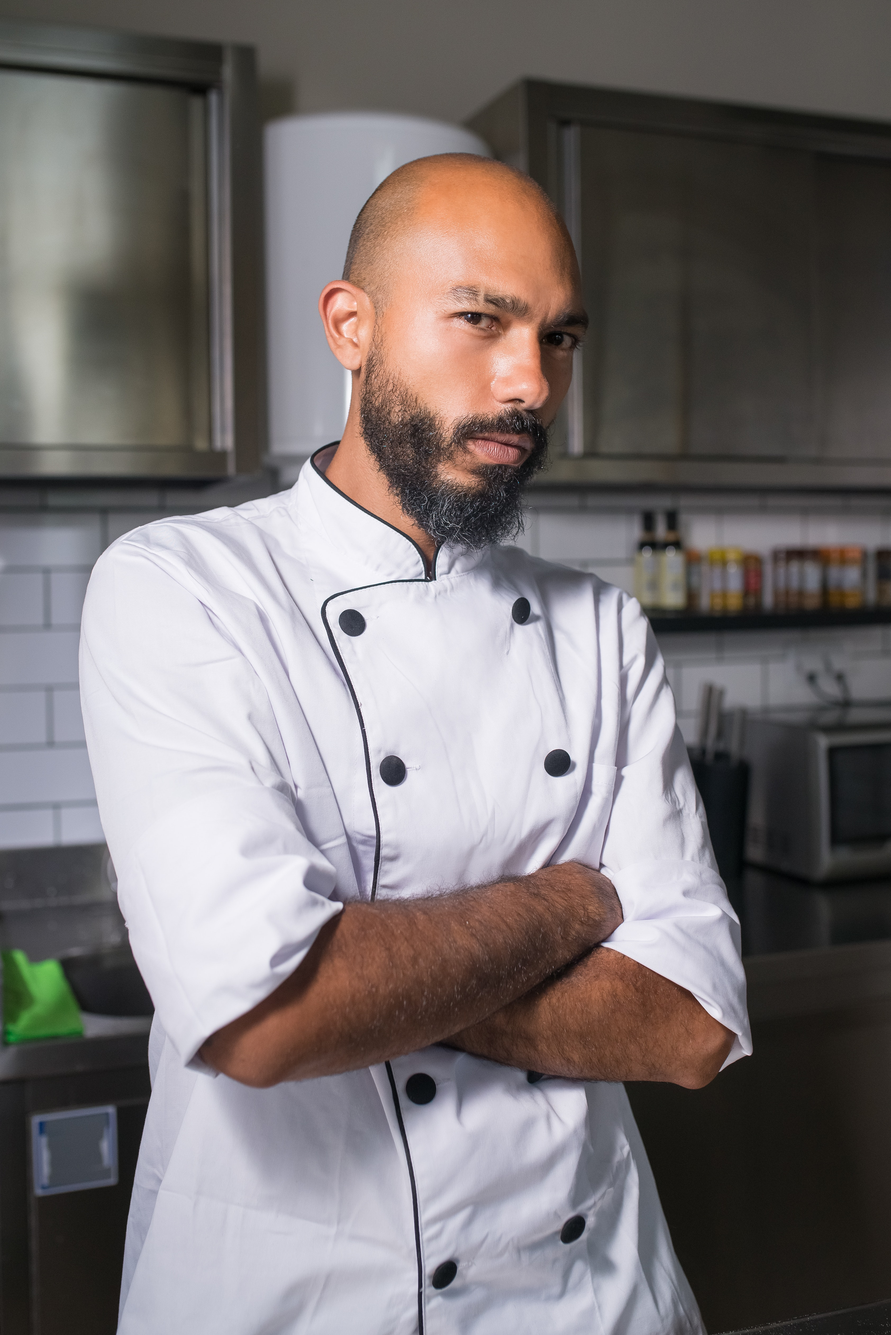
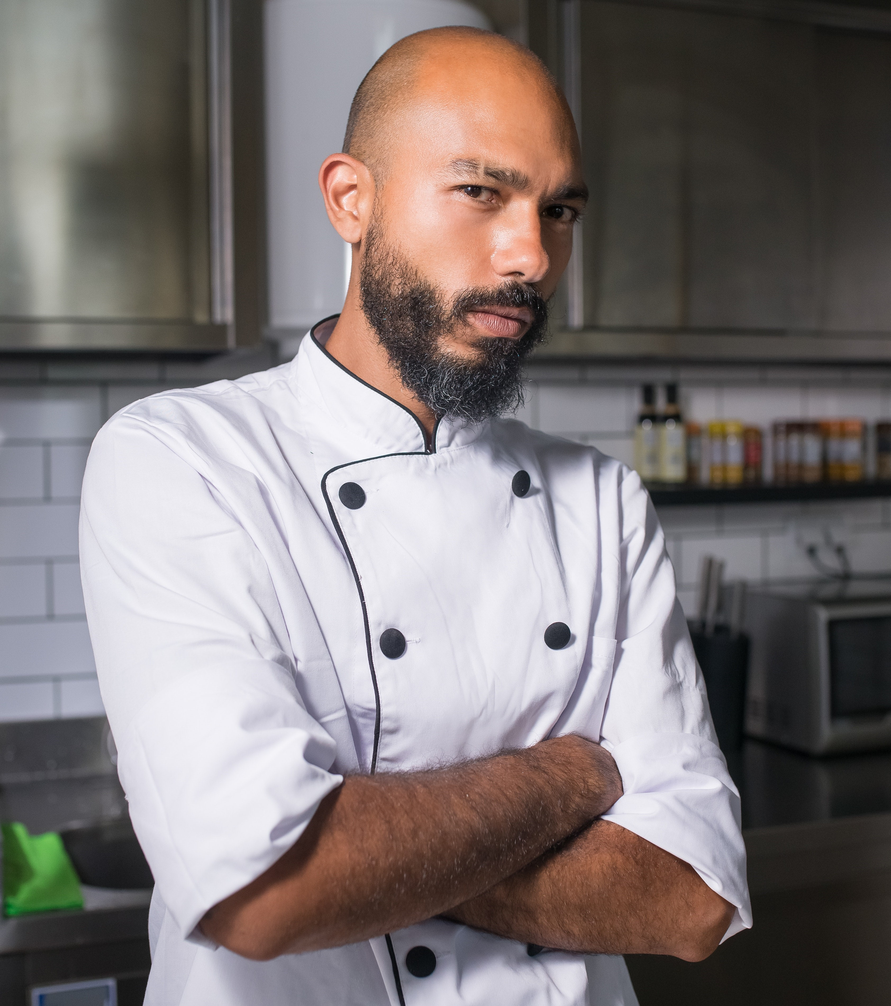
Add styles on the third image in the workshop page

diff --git a/assets/css/style.css b/assets/css/style.css
@@ -264,10 +264,38 @@ footer ul {
     font-weight: 300px;
 }
 
+#chef-3 {
+    display: flex;
+    justify-content: center;
+    align-items: center;
+    padding: 1rem;
+    gap: 1rem;
+}
+
+#chef-3 img {
+    width: 50%;
+    object-fit: contain;
+}
+
+#description-3 {
+    width: 20%;
+    align-items: center;
+    text-align: center;
+    padding: 1rem;
+    background-color: #FFBD9B;
+}
+
+#description-3 h2 {
+    font-size: 200%;
+    font-weight: 300px;
+}
+
 /*sign up button*/
 
 #btn-container {
     text-align: center;
+    padding: 1rem;
+    box-sizing: border-box;
 }
 
 .sign-button {
